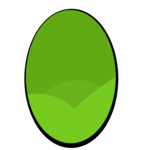
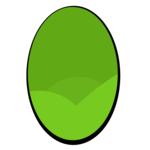
bouton music bien affiché + textures centrées

diff --git a/src/programs/graphism.py b/src/programs/graphism.py
@@ -296,11 +296,7 @@ class Graphism:
         
         # boutton curseur
         self.screen.blit(self.cursor_background_button, self.cursor_background_button_rect)
-        
-        if self.cursor_background_button_rect.collidepoint(mouse_pos) or self.is_cursor_selected:
-            self.screen.blit(self.cursor_selected_button, self.cursor_button_rect)
-        else:
-            self.screen.blit(self.cursor_button, self.cursor_button_rect)
+        self.screen.blit(self.cursor_button, self.cursor_button_rect)
             
         # bouton mode de jeu (joueur ou éditeur)
         if self.game_mode_button_rect.collidepoint(mouse_pos):
@@ -316,7 +312,7 @@ class Graphism:
         
         # bouton activer / désactiver la musique
         if self.play_music_button_rect.collidepoint(mouse_pos):
-            self.screen.blit(self.play_music_button, self.play_music_button_rect)
+            self.screen.blit(self.play_music_selected_button, self.play_music_button_rect)
         else:
             self.screen.blit(self.play_music_button, self.play_music_button_rect)
         # bouton afficher / cacher les erreurs
@@ -779,11 +775,8 @@ class Graphism:
         # image du curseur
         self.cursor_button = self.load_image("buttons/options/cursor.png", [self.options_buttons_dimensions[1]] * 2)
         
-        # image curseur sélectionné
-        self.cursor_selected_button = self.load_image("buttons/options/cursor_selected.png", [self.options_buttons_dimensions[1]] * 2)
-        
         # rectangle curseur
-        self.cursor_button_rect = self.cursor_selected_button.get_rect()
+        self.cursor_button_rect = self.cursor_button.get_rect()
         self.cursor_button_rect.x = ref_coordinates_left[0] + (self.options_buttons_dimensions[0] - self.cursor_button.get_width()) * (self.game.generation_difficulty - 0.3) * 2.5
         self.cursor_button_rect.y = ref_coordinates_left[1] + buttons_gap * 4
         

diff --git a/main.py b/main.py
@@ -21,8 +21,8 @@ while not game.do_quit:
     # Limitation à 60 images par seconde
     pygame.time.Clock().tick(60)
 
-    # Si la souris est immobile ne met pas à jour l'affichage du jeu
-    do_display = pygame.mouse.get_rel() == (0, 0)
+    # Si la souris est immobile, ne pas mettre à jour l'affichage du jeu
+    do_display = pygame.mouse.get_rel() != (0, 0)
 
     # Mettre à jour le jeu
     game.update(do_display)
